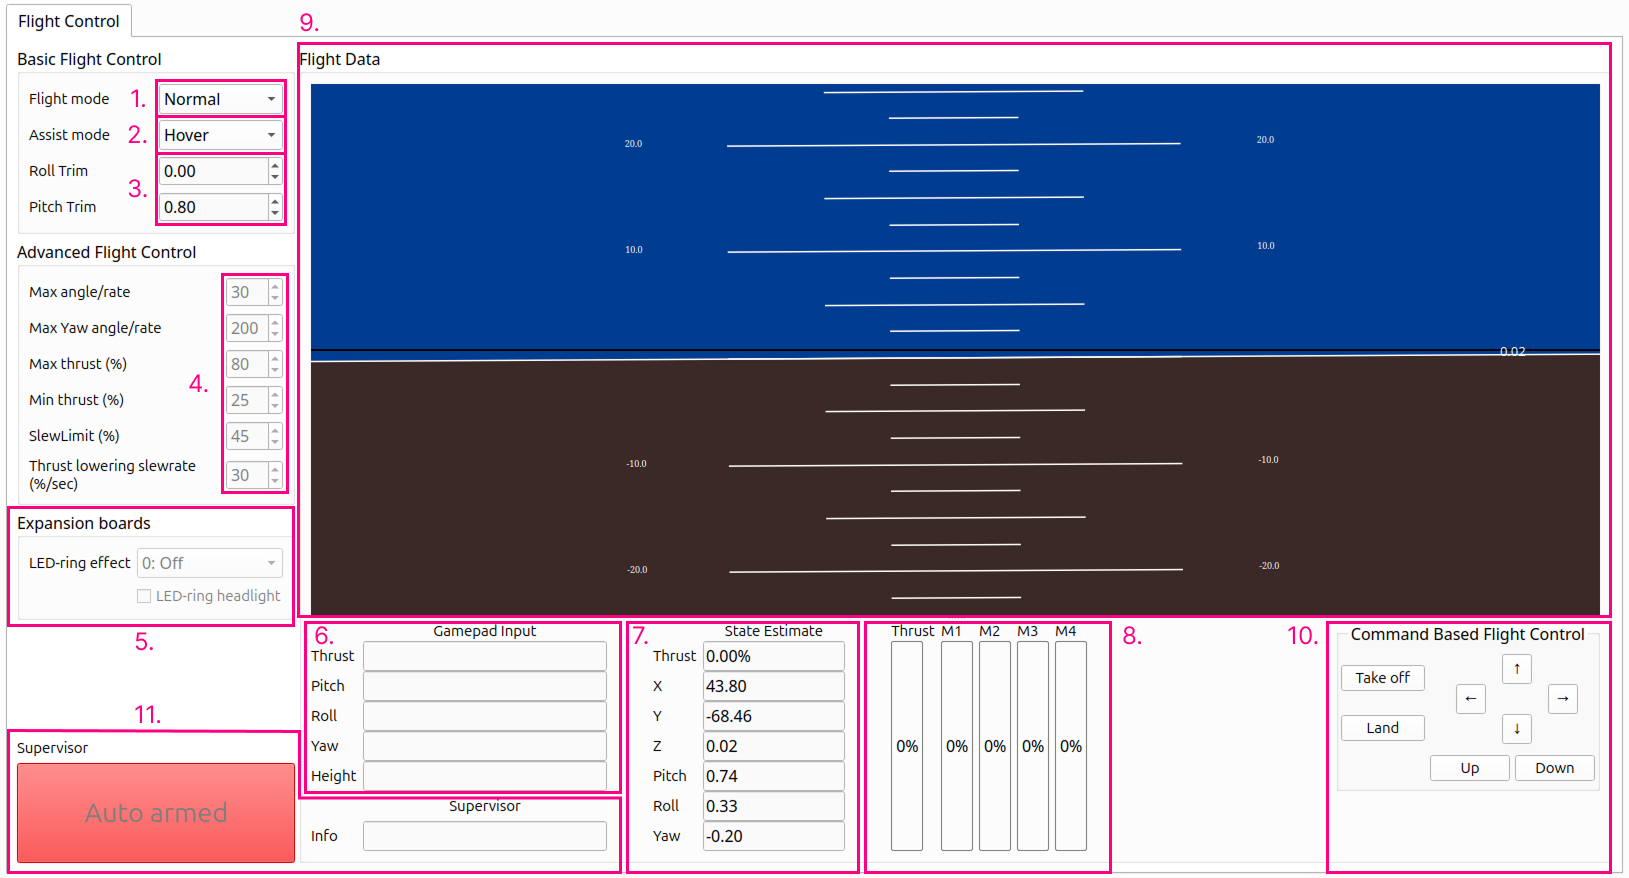
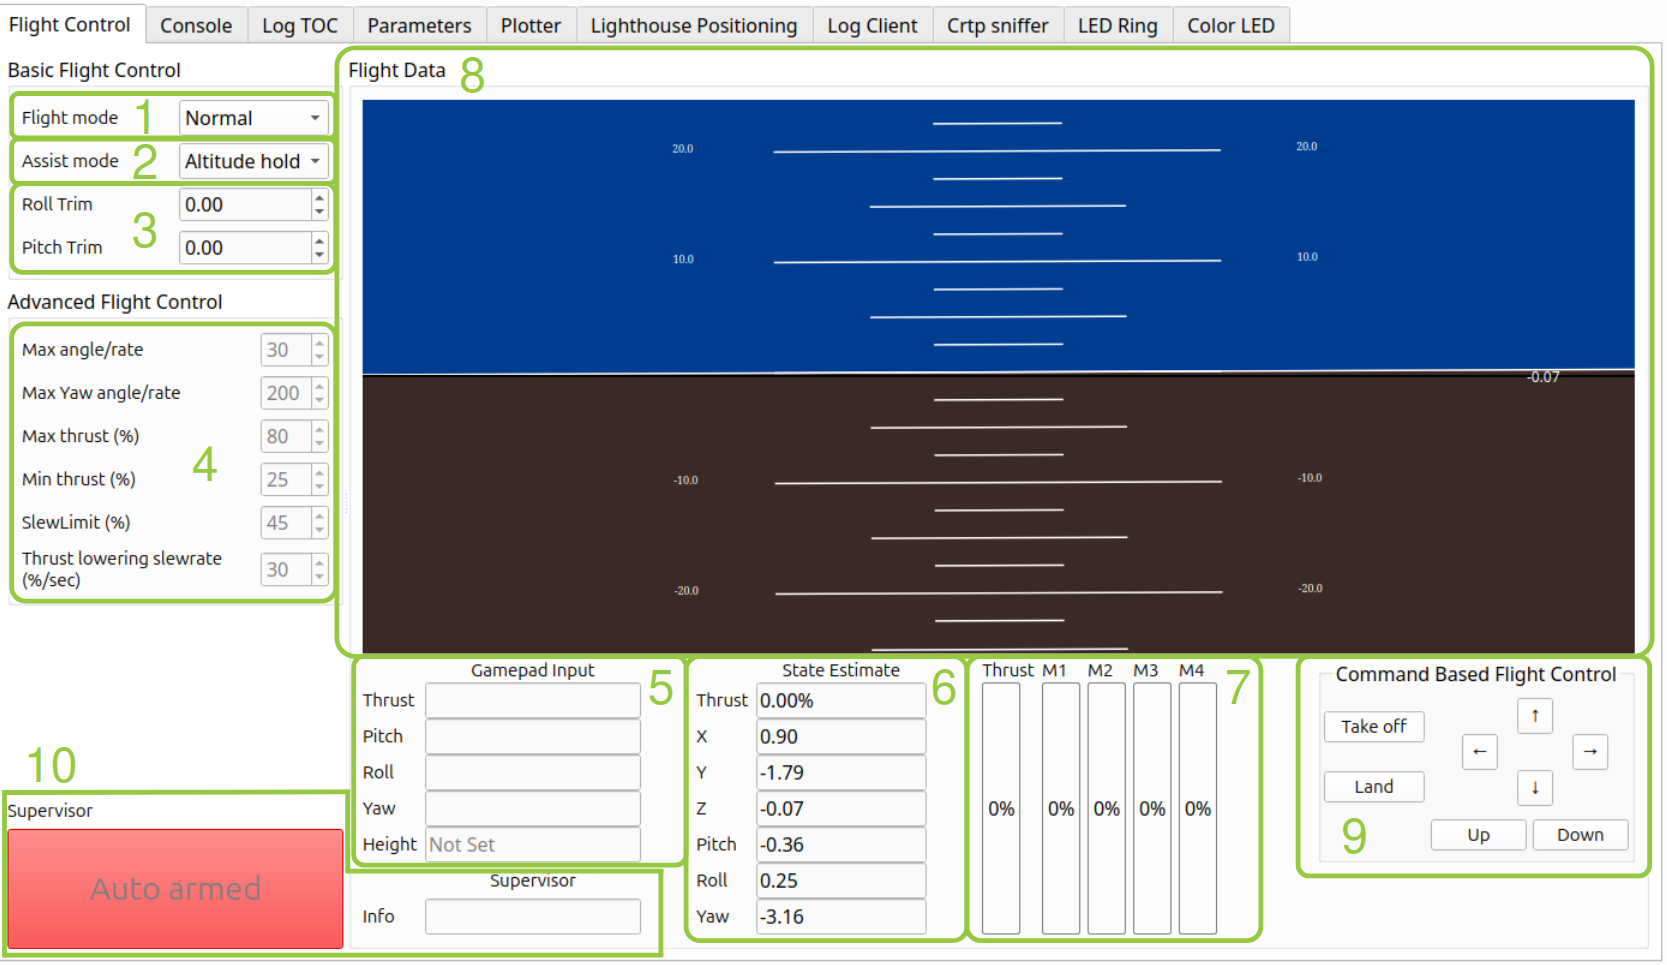
Updated flight tab documentation (withtout the LED-ring part)

diff --git a/docs/userguides/userguide_client/flightcontrol_tab.md b/docs/userguides/userguide_client/flightcontrol_tab.md
@@ -29,10 +29,9 @@ The normal view used when flying is the one seen below.
     * *Min thrust:* Minimum thrust before 0 is sent to the Crazyflie.
     * *Slew limit:* Set the percentage where the thrust is slew controlled (the thrust value lowering will be limited). This makes the Crazyflie a bit easier to fly for beginners.
     * *Slew rate:* When the thrust is below the slew limit, this is the maximum rate of lowering the thrust.
-5. Settings for flight decks, currently the LED-ring effect and headlights can be set (if the ring is attached).
-6. Target values sent from the client for controlling the Crazyflie.
-7. Actual values logged from the Crazyflie.
-8. Motor output on the Crazyflie.
-9. Horizon indicator.
-10. Command based flight control, allow controlled flight if, and only if, a positioning deck such as the [Flow deck](https://store.bitcraze.io/collections/decks/products/flow-deck-v2), the [Loco deck](https://store.bitcraze.io/collections/decks/products/loco-positioning-deck) or the [Lighthouse deck](https://store.bitcraze.io/collections/decks/products/lighthouse-positioning-deck) is present.
-11. Supervisor button and supervisor information. Information will be shown depending on the state of the Crazyflie. Pressing the button will send an arming or disarming event to the Crazyflie which will arm or disarm the system if this is possible. This button can also say "Auto armed" which indicates the Crazyflie is configured to arm the system automatically if system checks have passed. More info in [Crazyflie firmware arming documentation](https://www.bitcraze.io/documentation/repository/crazyflie-firmware/master/functional-areas/supervisor/arming/). In the event of a crash, pressing the button will recover the Crazyflie. 
+5. Target values sent from the client for controlling the Crazyflie.
+6. Actual values logged from the Crazyflie.
+7. Motor output on the Crazyflie.
+8. Horizon indicator.
+9. Command based flight control, allow controlled flight if, and only if, a positioning deck such as the [Flow deck](https://store.bitcraze.io/collections/decks/products/flow-deck-v2), the [Loco deck](https://store.bitcraze.io/collections/decks/products/loco-positioning-deck) or the [Lighthouse deck](https://store.bitcraze.io/collections/decks/products/lighthouse-positioning-deck) is present.
+10. Supervisor button and supervisor information. Information will be shown depending on the state of the Crazyflie. Pressing the button will send an arming or disarming event to the Crazyflie which will arm or disarm the system if this is possible. This button can also say "Auto armed" which indicates the Crazyflie is configured to arm the system automatically if system checks have passed. More info in [Crazyflie firmware arming documentation](https://www.bitcraze.io/documentation/repository/crazyflie-firmware/master/functional-areas/supervisor/arming/). In the event of a crash, pressing the button will recover the Crazyflie.
